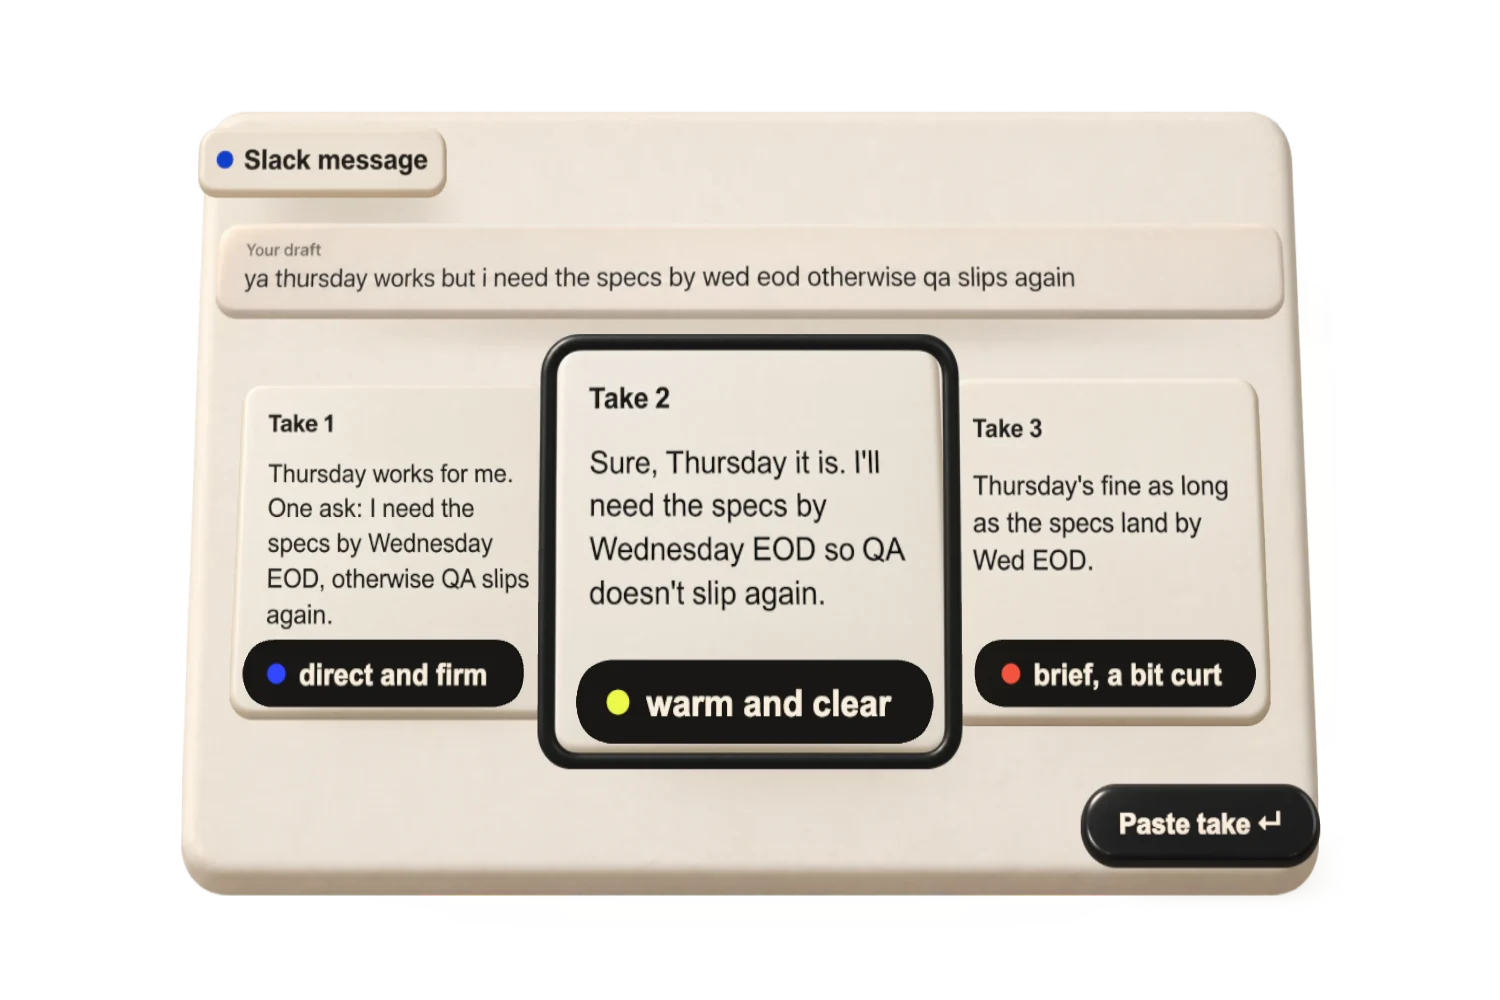
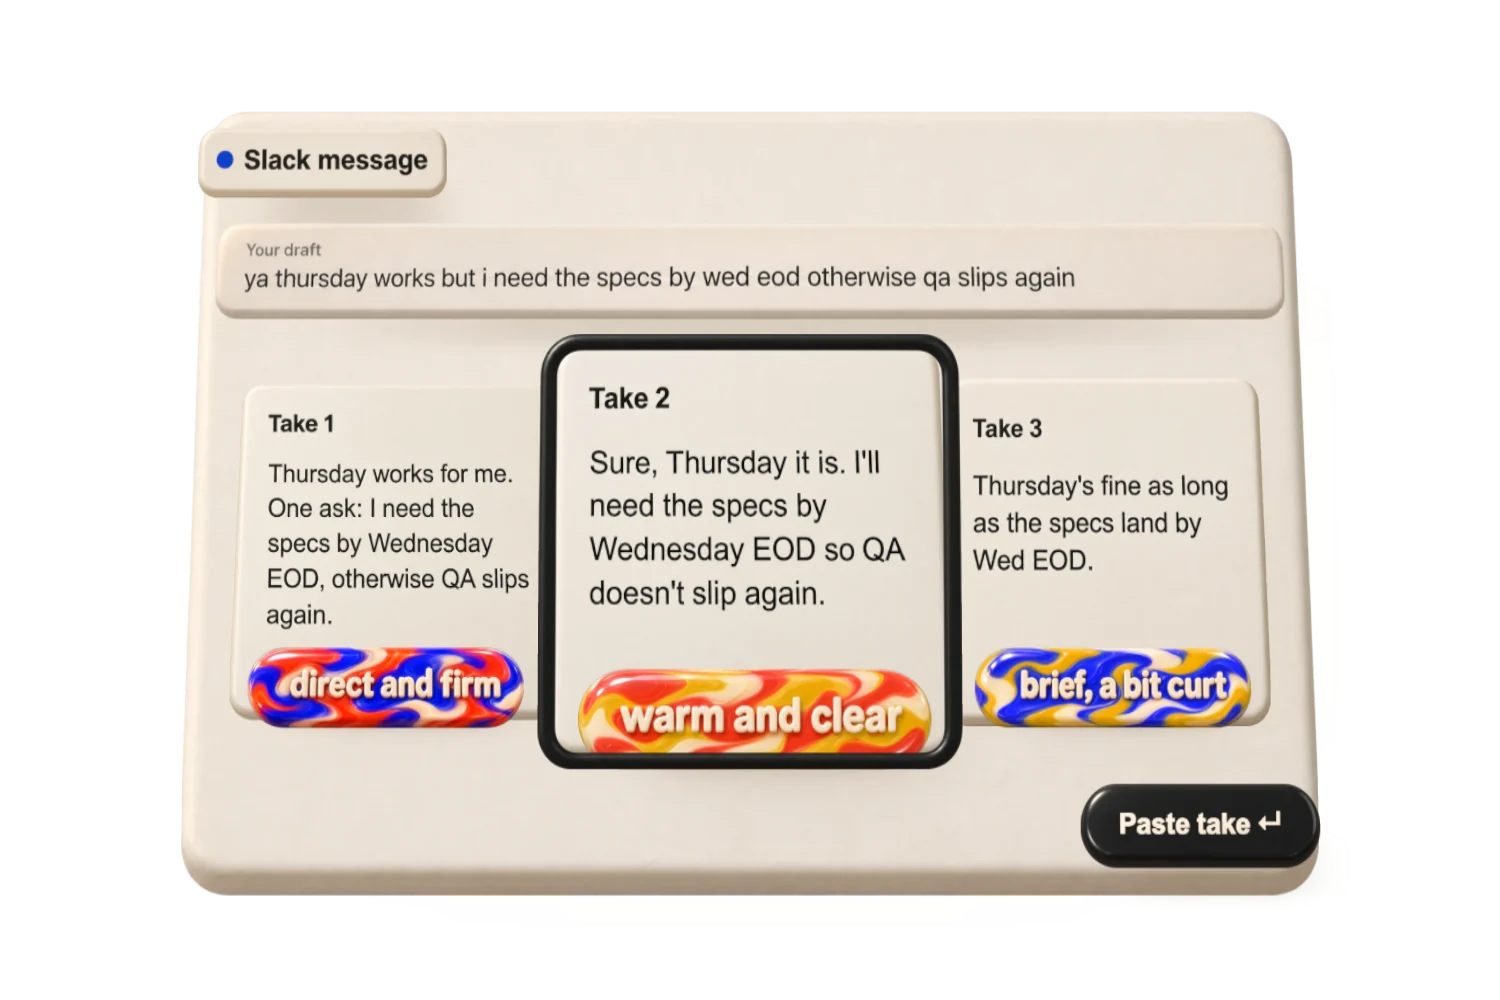
Site: marbled tone pills in the product view (#53)
## What this changes and why

The tone pills added in bar-amir/takes#52 were drawn by the page, so
they looked flatter than the rendered parts around them. They are now
rendered pieces like the rest of the "Choice is the product" panel:
marbled pills in the About logo's material, each in its own colour
combination (cobalt, tomato and cream; tomato, acid and cream; cobalt,
acid and cream), with raised cream lettering. They sit a little lower on
each card. The Paste button is untouched.

The scene can export a take's pill on its own
(`layers.html?scene=takes&part=tone1`) and loads the pill renders like
the other parts. Each pill can also play a green-screen loop of its
marbling flowing (`tone<n>.mp4`), keyed in a shader and cut to the
still's edge, so the clip needs no alpha channel; that path is gated on
a `data-clips` attribute, which stays off until the clips exist.
`brand/campaign/HIGGSFIELD-KIT.md` documents the prompts, the keying and
the clip pipeline.

Not included: the loop clips themselves. The Higgsfield workspace ran
out of credits after the three stills, so the Seedance jobs were
refused; the pills are still images until the clips are made.

## How I checked it

Rendered the still headlessly from the same scene and looked at it;
opened the page from a local server and checked the live WebGL panel on
desktop, hover and arrow keys, and phone width. Tested the clip playback
path with a stand-in clip made from one still (keyed and masked
[…]

Changed region(s): [[0.1533, 0.62, 0.8587, 0.775]]

diff --git a/site/js/layers.js b/site/js/layers.js
@@ -122,7 +122,7 @@ const SCENES = {
       const note = tile(renderer, { w: 0.8 + measure(tone, 24), h: 0.54, r: 0.27, depth: 0.12, bg: C.ink,
         draw: (c, cw, ch) => { dot(c, 30, ch / 2, 8, dotColor); text(c, tone, 50, ch / 2 + 9, { size: 24, weight: 700, color: C.paper }); } });
       note.userData.face.material.alphaTest = 0.5; // its clear corners mustn't hide the card render behind them
-      note.userData.keep = true; card.add(place(note, -1.5 + 0.26 + note.userData.w / 2, -1.0, card.userData.top + 0.1, "tone"));
+      note.userData.keep = note.userData.tone = true; card.add(place(note, -1.5 + 0.26 + note.userData.w / 2, -1.12, card.userData.top + 0.1, "tone" + (i + 1)));
       card.userData.home = new THREE.Vector3(-3.15 + i * 3.15, -0.45, 0.95);
       root.add(place(card, ...card.userData.home.toArray(), "take" + (i + 1))); return card;
     });
@@ -322,7 +322,7 @@ if (typeof window !== "undefined" && "DeviceOrientationEvent" in window && match
 // rendered part images; the takes scene then shows those instead of its own tiles).
 // card: the stage is a carousel stage that bleeds past its card (6% right, 13% top and bottom); the scene is then
 // fitted to the card's area, so only pieces that really stick out use the bleed.
-export function mount(el, name, { interactive = false, exportMode = false, part = null, shot = false, sprites = null, onReady = null, card = false } = {}) {
+export function mount(el, name, { interactive = false, exportMode = false, part = null, shot = false, sprites = null, onReady = null, card = false, clips = false } = {}) {
   const reduce = matchMedia("(prefers-reduced-motion: reduce)").matches;
   const renderer = new THREE.WebGLRenderer({ antialias: true, alpha: true, preserveDrawingBuffer: exportMode });
   renderer.setClearColor(0x000000, 0); renderer.outputColorSpace = THREE.SRGBColorSpace;
@@ -358,8 +358,8 @@ export function mount(el, name, { interactive = false, exportMode = false, part 
 
   // One part alone, seen almost straight on: the layout reference for its render.
   if (part) {
-    root.children.forEach((o) => { o.visible = o.name === part; });
-    const p = root.getObjectByName(part); p.position.set(0, 0, 0); p.rotation.set(0, 0, 0); bounds = [p.userData.w + 0.5, p.userData.h + 0.5]; takes = null;
+    const p = root.getObjectByName(part); if (p.parent !== root) root.attach(p); // a take's tone pill is exported on its own too
+    root.children.forEach((o) => { o.visible = o === p; }); p.position.set(0, 0, 0); p.rotation.set(0, 0, 0); bounds = [p.userData.w + 0.5, p.userData.h + 0.5]; takes = null;
   }
   // Rendered pieces are seen almost straight on, each scene turned a touch its own way; carousel frames use their
   // per-feature angle; otherwise the near-front three-quarter view of the stills.
@@ -416,8 +416,27 @@ export function mount(el, name, { interactive = false, exportMode = false, part 
   // Sprites: every named piece is shown as its own rendered image on a plane, at the tile's place and size, over a
   // soft drawn shadow. The drawn tiles stay underneath until every image has loaded.
   let ready = !sprites;
+  // The tone pills' marbling flows: each plays its green-screen loop (<sprites>/<name>.mp4, cropped like its still),
+  // keyed in the shader and cut to the still's edge, so the clip needs no alpha channel. Still with reduced motion.
+  const videos = [];
+  const liveTone = (plane, still, src) => {
+    const v = document.createElement("video"); v.muted = true; v.loop = true; v.playsInline = true; v.preload = "auto";
+    v.addEventListener("canplay", () => {
+      const vt = new THREE.VideoTexture(v); vt.colorSpace = THREE.NoColorSpace; // raw sRGB in, written out as is
+      plane.material.dispose();
+      plane.material = new THREE.ShaderMaterial({ transparent: true, depthWrite: false, uniforms: { video: { value: vt }, still: { value: still } },
+        vertexShader: "varying vec2 vUv; void main() { vUv = uv; gl_Position = projectionMatrix * modelViewMatrix * vec4(position, 1.0); }",
+        fragmentShader: `uniform sampler2D video, still; varying vec2 vUv;
+          void main() { vec4 s = texture2D(still, vUv); vec3 c = texture2D(video, vUv).rgb;
+            float g = c.g - max(c.r, c.b); // how green: the key reads about 0.9, the marble and cream below 0.1
+            float k = 1.0 - smoothstep(0.2, 0.45, g); c.g = min(c.g, max(c.r, c.b) + 0.12); // and no green fringe
+            gl_FragColor = vec4(c, s.a * k); }` });
+      videos.push(v); if (visible) v.play().catch(() => {});
+    }, { once: true });
+    v.src = src;
+  };
   if (sprites) {
-    const names = root.children.filter((o) => o.name && (o.visible || o.name === "ring")).map((o) => o.name);
+    const names = []; root.traverse((o) => { if (o !== root && o.name && (o.visible || o.name === "ring")) names.push(o.name); }); // tone pills sit inside their takes
     const loader = new THREE.TextureLoader();
     Promise.all(names.map((n) => loader.loadAsync(`${sprites}/${n}.webp?v=${ASSET_V}`).then((tex) => [n, tex]))).then((loaded) => {
       for (const [n, tex] of loaded) {
@@ -427,7 +446,9 @@ export function mount(el, name, { interactive = false, exportMode = false, part 
         const ph = n === "base" ? obj.userData.h : w / aspect;
         const plane = new THREE.Mesh(new THREE.PlaneGeometry(w, ph), new THREE.MeshBasicMaterial({ map: tex, transparent: true, depthWrite: false }));
         obj.children.forEach((c) => { c.visible = !!c.userData.keep; }); obj.add(plane); obj.visible = true; obj.userData.sprite = plane; obj.userData.h = ph;
-        const tone = obj.getObjectByName("tone"); // a take's tone chip casts a soft shadow onto the card render it sits on
+        if (obj.userData.tone) { plane.renderOrder = 84; // drawn over its take's render, under the ring
+          if (clips && !exportMode && !reduce) liveTone(plane, tex, `${sprites}/${n}.mp4?v=${ASSET_V}`); continue; }
+        const tone = obj.children.find((c) => c.userData.tone); // a take's tone chip casts a soft shadow onto the card render it sits on
         if (tone) { const sh = new THREE.Mesh(new THREE.PlaneGeometry(tone.userData.w * 1.1, tone.userData.h * 1.3),
           new THREE.MeshBasicMaterial({ map: shadowTexture(), transparent: true, depthWrite: false, opacity: 0.5 }));
           sh.position.set(tone.position.x + 0.08, tone.position.y - 0.12, tone.position.z - 0.05); sh.renderOrder = 81; obj.add(sh); }
@@ -464,7 +485,8 @@ export function mount(el, name, { interactive = false, exportMode = false, part 
   el.addEventListener("pointermove", onMove); el.addEventListener("pointerdown", onDown); el.addEventListener("pointerleave", onLeave); el.addEventListener("keydown", onKey);
 
   let visible = true, alive = true, last = performance.now();
-  const io = new IntersectionObserver(([e]) => { visible = e.isIntersecting; if (visible && alive) { last = performance.now(); requestAnimationFrame(frame); } }); io.observe(el);
+  const io = new IntersectionObserver(([e]) => { visible = e.isIntersecting; if (visible && alive) { last = performance.now(); requestAnimationFrame(frame); }
+    videos.forEach((v) => { if (visible) v.play().catch(() => {}); else v.pause(); }); }); io.observe(el);
   const ro = new ResizeObserver(fit); ro.observe(el);
   function frame(now) {
     if (!visible || !alive) return;
@@ -478,7 +500,7 @@ export function mount(el, name, { interactive = false, exportMode = false, part 
   }
   requestAnimationFrame(frame);
   // Frees the WebGL context, so a carousel can keep only the slides near the screen alive.
-  const destroy = () => { alive = false; io.disconnect(); ro.disconnect();
+  const destroy = () => { alive = false; io.disconnect(); ro.disconnect(); videos.forEach((v) => { v.pause(); v.removeAttribute("src"); v.load(); });
     el.removeEventListener("pointermove", onMove); el.removeEventListener("pointerdown", onDown); el.removeEventListener("pointerleave", onLeave); el.removeEventListener("keydown", onKey);
     scene.traverse((o) => { o.geometry?.dispose(); [].concat(o.material || []).forEach((m) => { m.map?.dispose(); m.dispose(); }); });
     renderer.dispose(); renderer.forceContextLoss(); canvas.remove(); };

diff --git a/site/index.html b/site/index.html
@@ -407,7 +407,7 @@ fill="currentColor" stroke="none">
   <section class="product">
     <div class="wrap">
       <h2 class="display">Choice is the product.</h2>
-      <div class="layers" data-scene="takes" data-sprites="img/layers/parts" tabindex="0" aria-label="The Takes panel as floating layers: the draft above three takes of a Slack message, each with a note on how it may read. Point at a take, or use the arrow keys, to bring it to the front."><img src="img/layers/takes-front.webp?v=7" width="1500" height="1000" alt="The Takes panel as floating layers: the draft above three takes of a Slack message, each with a note on how it may read: direct and firm, warm and clear, brief and a bit curt. The middle take is lifted to the front."></div>
+      <div class="layers" data-scene="takes" data-sprites="img/layers/parts" tabindex="0" aria-label="The Takes panel as floating layers: the draft above three takes of a Slack message, each with a note on how it may read. Point at a take, or use the arrow keys, to bring it to the front."><img src="img/layers/takes-front.webp?v=9" width="1500" height="1000" alt="The Takes panel as floating layers: the draft above three takes of a Slack message, each with a note on how it may read: direct and firm, warm and clear, brief and a bit curt. The middle take is lifted to the front."></div>
       <p class="caption">Compare complete alternatives and how each may read. Inspect changes, refine a selected take, then paste it back.</p>
     </div>
   </section>
@@ -560,7 +560,7 @@ fill="currentColor" stroke="none">
     const twin = (slide) => { const sc = slide.querySelector(".slide-stage")?.dataset.scene; return all.filter((s) => s !== slide && s.querySelector(".slide-stage")?.dataset.scene === sc); };
     const wake = async (slide) => { const st = slide.querySelector(".slide-stage"); if (!st || live.has(st)) return; live.set(st, null);
       if (slide.dataset.clone) twin(slide).forEach((t) => { wake(t); const k = all.indexOf(t); if (live.size < 8) [all[k - 1], all[k + 1]].forEach((nb) => nb && wake(nb)); }); // a few contexts at most
-      try { lib = lib || await import("./js/layers.js?v=23");
+      try { lib = lib || await import("./js/layers.js?v=25");
         if (!live.has(st)) return;
         live.set(st, lib.mount(st, st.dataset.scene, { interactive: true, sprites: st.dataset.sprites, card: true, onReady: () => st.classList.add("live") }));
       } catch (err) { console.warn("layers: slide failed", st.dataset.scene, err); live.delete(st); } };
@@ -580,7 +580,7 @@ fill="currentColor" stroke="none">
   if (el && "IntersectionObserver" in window) {
     const io = new IntersectionObserver(async ([e]) => {
       if (!e.isIntersecting) return; io.disconnect();
-      try { const { mount } = await import("./js/layers.js?v=23"); mount(el, el.dataset.scene, { interactive: true, sprites: el.dataset.sprites, onReady: () => el.classList.add("live") }); }
+      try { const { mount } = await import("./js/layers.js?v=25"); mount(el, el.dataset.scene, { interactive: true, sprites: el.dataset.sprites, clips: "clips" in el.dataset, onReady: () => el.classList.add("live") }); }
       catch { /* no WebGL or offline: keep the still */ }
     }, { rootMargin: "300px" });
     io.observe(el);

diff --git a/brand/campaign/HIGGSFIELD-KIT.md b/brand/campaign/HIGGSFIELD-KIT.md
@@ -49,6 +49,28 @@ perspective, so the hover keeps the rendered materials. Parts: `base`, `chip`, `
 - The page's still (`site/img/layers/takes-front.webp`) is the same scene exported once:
   `layers.html?scene=takes&sprites=img/layers/parts&export=1&w=1500&h=1000`.
 
+### Tone pills: marbled, and (later) flowing
+
+Each take's tone note (`tone1`–`tone3`) is a marbled pill in the About logo's material, each in its own colours:
+cobalt, tomato and cream; tomato, acid and cream; cobalt, acid and cream. Raised cream lettering, no dot.
+
+- Layout: `layers.html?scene=takes&part=tone1&export=1&w=1200&h=1200` (the drawn ink pill, for proportions and text).
+- Material: `Resources/About/logo-still.png`.
+- Prompt: "Render ONLY the single pill-shaped tag in the FIRST reference image as a physical object, in exactly the
+  material and finish of the SECOND reference image (the marbled logo slab): a thick, glossy, slightly domed slab of
+  marbled resin, the marbling made of flowing swirls of <colours> like a lava lamp … Its text "<tone>" is raised cream
+  glossy lettering embossed on the marble … No dot … The background is a perfectly flat, uniform pure green (#00FF00)
+  chroma key …" GPT Image 2.6, `quality: high`, `resolution: 2k`, `aspect_ratio: 21:9`, `background: opaque` (a green
+  screen rather than transparency, so the same still can start and end a loop clip).
+- Post: key the green (`ffmpeg -i <render>.png -vf "chromakey=0x<key>:0.14:0.05,despill=type=green:mix=0.7,format=rgba"`,
+  reading the key colour from a corner), then `scripts/frame-render.sh part <keyed>.png site/img/layers/parts/tone<n>.webp`.
+- Loop clips (not yet made): Seedance 2.5, `omni_reference`, the still as both `start_image` and `end_image`, 5 s, 21:9,
+  720p, no audio, prompt: the pill and its letters stay perfectly still, only the marbling flows like a lava lamp,
+  flat green background, last frame equals first. Scale the master to the render's width, apply the still's crop
+  (the `crop=` that `frame-render.sh` detects on the keyed still), and save it as `site/img/layers/parts/tone<n>.mp4`
+  (H.264, yuv420p, about 700 px wide, no alpha: the page keys the green in a shader and cuts to the still's edge).
+  Then add `data-clips` to the `.layers` element in `site/index.html`; without it the page never asks for the clips.
+
 ## Features carousel: one render per piece
 
 Each carousel slide is a live WebGL scene like the takes panel: every piece (a key, a chip, a card, a tile) is its own
